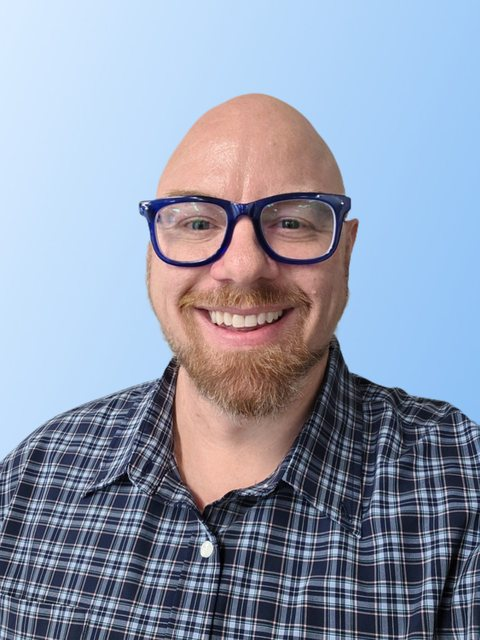
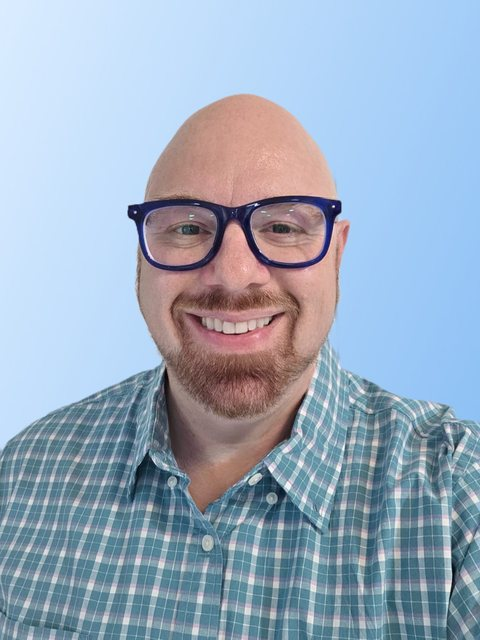
Use the new teal-plaid photo for the bio and offer three press photos
Brian sent Profile_3 and Profile_4. Profile_4 becomes the round bio
portrait and press photo 1; Profile_1 moves to photo 2; Profile_3 (the
same shot as Profile_2 on a soft pink-gray background) replaces Profile_2
as photo 3. Bumps brian.jpg to v=3 and versions the press links.

Claude-Session: https://claude.ai/code/session_012K2q99KYqx31fvN7sixHip

diff --git a/press.html b/press.html
@@ -147,7 +147,7 @@
   <section class="section section-light" id="bio">
     <div class="wrap wrap-split wrap-split-rev" style="align-items: start;">
       <figure class="portrait">
-        <img class="portrait-img" src="brian.jpg?v=2" alt="Brian Young" width="800" height="800" loading="lazy">
+        <img class="portrait-img" src="brian.jpg?v=3" alt="Brian Young" width="800" height="800" loading="lazy">
         <figcaption>Brian Young &middot; <a class="text-link" href="#photos">Author photos</a></figcaption>
       </figure>
       <div>
@@ -161,20 +161,27 @@
         <p class="prose">He spent eight years in Seattle, where he developed a deep love of hiking the trails of the Pacific Northwest. The misty woods, the sense that something ancient might be watching from just beyond the tree line, the way the wilderness holds secrets it isn't ready to share: all of it found its way onto the page. Those years hiking the PNW trails became the inspiration for the Sophia Sprite series.</p>
         <p class="prose">When he's not writing, Brian can be found tending to his collection of Funko Pops, watching the Chicago Sky in the WNBA, and working on home improvement projects that always seem to take longer than planned. He currently lives in Chicago with a deep appreciation for a good story, a well-crafted sentence, and the possibility that there's more to the world than meets the eye.</p>
         <h3 class="group-title" id="photos">Author photos</h3>
-        <p class="prose">Two high-resolution photos, free for editorial use. Click either one to open the full-size file.</p>
+        <p class="prose">Three high-resolution photos, free for editorial use. Click any one to open the full-size file.</p>
         <ul class="press-photos">
           <li>
-            <a href="downloads/Brian_Young_Author_Photo_1.jpg" target="_blank" rel="noopener">
-              <img src="brian-press-1.jpg" alt="Brian Young smiling, in blue glasses and a navy plaid shirt, on a light blue background" width="480" height="640" loading="lazy">
+            <a href="downloads/Brian_Young_Author_Photo_1.jpg?v=2" target="_blank" rel="noopener">
+              <img src="brian-press-1.jpg?v=2" alt="Brian Young smiling, in blue glasses and a teal plaid shirt, on a light blue background" width="480" height="640" loading="lazy">
               <span class="photo-label">Photo 1</span>
-              <span class="photo-meta">2544 &times; 3392 px &middot; 2.9 MB</span>
+              <span class="photo-meta">2544 &times; 3392&nbsp;px &middot; 2.9&nbsp;MB</span>
             </a>
           </li>
           <li>
-            <a href="downloads/Brian_Young_Author_Photo_2.jpg" target="_blank" rel="noopener">
-              <img src="brian-press-2.jpg" alt="Brian Young smiling, in rainbow-trimmed glasses and a black polka-dot shirt, on a bright blue background" width="480" height="640" loading="lazy">
+            <a href="downloads/Brian_Young_Author_Photo_2.jpg?v=2" target="_blank" rel="noopener">
+              <img src="brian-press-2.jpg?v=2" alt="Brian Young smiling, in blue glasses and a navy plaid shirt, on a light blue background" width="480" height="640" loading="lazy">
               <span class="photo-label">Photo 2</span>
-              <span class="photo-meta">2208 &times; 2944 px &middot; 1.2 MB</span>
+              <span class="photo-meta">2544 &times; 3392&nbsp;px &middot; 2.9&nbsp;MB</span>
+            </a>
+          </li>
+          <li>
+            <a href="downloads/Brian_Young_Author_Photo_3.jpg?v=2" target="_blank" rel="noopener">
+              <img src="brian-press-3.jpg?v=2" alt="Brian Young smiling, in rainbow-trimmed glasses and a black polka-dot shirt, on a soft pink-gray background" width="480" height="640" loading="lazy">
+              <span class="photo-label">Photo 3</span>
+              <span class="photo-meta">2208 &times; 2944&nbsp;px &middot; 1.5&nbsp;MB</span>
             </a>
           </li>
         </ul>

diff --git a/index.html b/index.html
@@ -243,7 +243,7 @@
   <section class="section section-dark" id="about">
     <div class="wrap wrap-split wrap-split-rev">
       <figure class="portrait">
-        <img class="portrait-img" src="brian.jpg?v=2" alt="Brian Young" width="800" height="800" loading="lazy">
+        <img class="portrait-img" src="brian.jpg?v=3" alt="Brian Young" width="800" height="800" loading="lazy">
         <figcaption>Brian Young</figcaption>
       </figure>
       <div>

diff --git a/README.md b/README.md
@@ -18,7 +18,7 @@ Fast, free author site for GitHub Pages. No frameworks, no build step. Fully sel
 | audiobook/index.html | Public audiobook page at /audiobook/ (in search): Audible button, Chapter One player, narrator facts |
 | 404.html | Shown by GitHub Pages for any missing URL; every link in it is absolute |
 | share/ | 1200x630 social share images: out-now.jpg (home, Sophia Sprite, store, preorder, first chapters), audiobook.jpg (audiobook and Chapter One pages), press.jpg (press kit and releases) |
-| downloads/ | Free guide and kit PDFs linked from the three pages above (file names are case-sensitive), plus the press-kit cover files: Sophia_Sprite_Cover_1800x2880.jpg (300 dpi front cover) and Sophia_Sprite_Audiobook_Cover_3000px.jpg, and the full-size author photos Brian_Young_Author_Photo_1.jpg (2544x3392, the main one) and Brian_Young_Author_Photo_2.jpg (2208x2944) |
+| downloads/ | Free guide and kit PDFs linked from the three pages above (file names are case-sensitive), plus the press-kit cover files: Sophia_Sprite_Cover_1800x2880.jpg (300 dpi front cover) and Sophia_Sprite_Audiobook_Cover_3000px.jpg, and the full-size author photos Brian_Young_Author_Photo_1.jpg (2544x3392, the main one, also cropped for the bio), _2.jpg (2544x3392) and _3.jpg (2208x2944) |
 | sitemap.xml, robots.txt | Public pages and guide PDFs for search engines (the unlisted newsletter pages stay out on purpose) |
 | thanks.html | Shown after someone sends a message or signs up |
 | links/index.html | TikTok bio page at /links (unlisted, noindex). Swap campaigns by editing the five EDIT lines in its FEATURED BLOCK |
@@ -28,7 +28,7 @@ Fast, free author site for GitHub Pages. No frameworks, no build step. Fully sel
 | track.js | Meta Pixel and Google Analytics 4 (G-ZFE17HK48P, with Google signals and ad personalization off), the TikTok Pixel (DB9S873C77UAEK31BCK0), and the click events (Listen on Audible, ebook preorder, print buys, sample plays, signups). Paste an ID at the top to switch a service on, then list it in privacy.html |
 | privacy.html | Privacy page: forms, Meta Pixel, Google Fonts, hosting, Audible referral note, readers under 13 |
 | CNAME | Tells GitHub Pages the custom domain is brianyoungauthor.com |
-| *.jpg | Book covers (sasquatch-secret, sasquatch-secret-audiobook, banshee-bargain, sacred-vein, shadow-archive, hidden-network, pinky-whiskers) and author photos: brian.jpg (800px square crop of photo 1, shown as the round bio portrait) and brian-press-1.jpg / brian-press-2.jpg (480x640 press-kit thumbnails) |
+| *.jpg | Book covers (sasquatch-secret, sasquatch-secret-audiobook, banshee-bargain, sacred-vein, shadow-archive, hidden-network, pinky-whiskers) and author photos: brian.jpg (800px square crop of press photo 1, shown as the round bio portrait) and brian-press-1.jpg to brian-press-3.jpg (480x640 thumbnails of downloads/Brian_Young_Author_Photo_1-3.jpg for the press kit) |
 
 ## Hosting (already done)
 
